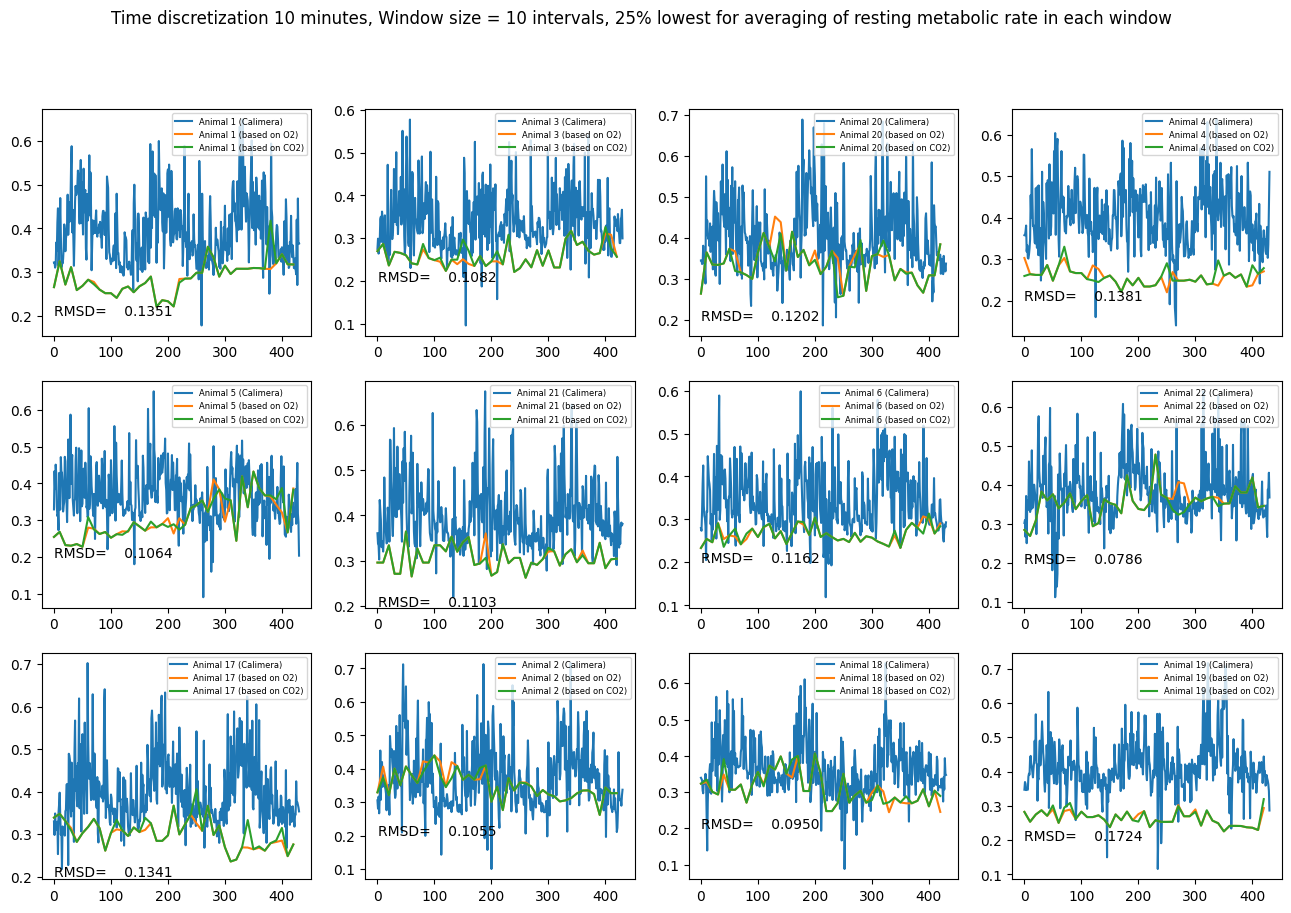
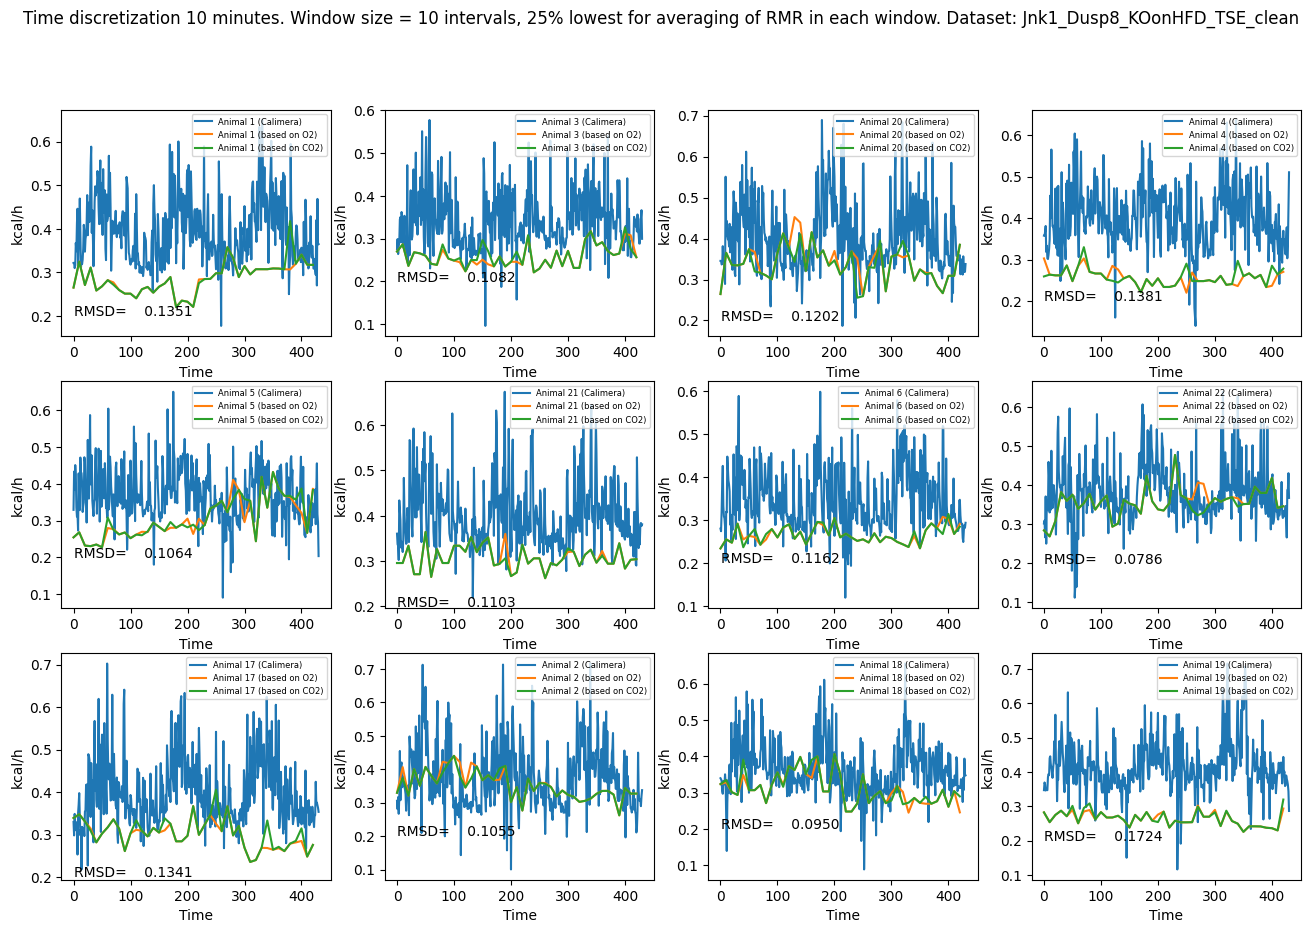
Labeling of data.

Changed region(s): [[0.0, 0.092, 1.0, 1.0], [0.0, 0.0, 0.9915, 0.0307], [0.9605, 0.9507, 0.9915, 1.0]]

diff --git a/Comparison calimera/compare.py b/Comparison calimera/compare.py
@@ -21,6 +21,7 @@ if __name__ == "__main__":
     parser.add_argument('-w', '--window', dest='window', required=True)
     parser.add_argument('-o', '--output', dest='output', required=True)
     parser.add_argument('-t', '--time', dest='time', required=True)
+    parser.add_argument('-n', '--name', dest='name', required=True)
     args = parser.parse_args()
 
     dfCalimera = pd.read_csv(args.reference, sep='\t')
@@ -48,14 +49,12 @@ if __name__ == "__main__":
         rmsds.append(np.sqrt(np.mean((np.array(datapointsRef)-np.array(datapoints))**2)))
         
     L, U = find_approx_square(len(animal_ids))
-    print("L:")
-    print(L)
-    print("U:")
-    print(U)
     for index, column in enumerate(animal_ids):
         plt.subplot(L, U, index + 1) # 3, 4
         plt.plot(range(0, num_rows), dfCalimera[column][1:], label=f"Animal {column} (Calimera)")
         plt.legend(loc=2, prop={'size' : 6})
+        plt.ylabel('kcal/h')
+        plt.xlabel(f'Time')
 
     for index, animal in enumerate(animal_ids):
         plt.subplot(L, U, index + 1) # 3, 4
@@ -63,6 +62,9 @@ if __name__ == "__main__":
         plt.plot(dfShiny.loc[(dfShiny["Animal"] == int(animal)) & (dfShiny["Component"] == "CO2")]["Time"].tolist(), dfShiny.loc[(dfShiny["Animal"] == int(animal)) & (dfShiny["Component"] == "CO2")]["HP"].tolist(), label=f"Animal {animal} (based on CO2)")
         plt.legend(loc=1, prop={'size' : 6})
         plt.text(0.1, 0.2, f"RMSD={'{:10.4f}'.format(rmsds[index])}")
+        plt.ylabel('kcal/h')
+        plt.xlabel(f'Time')
+
 
     min_RMRs = []
     for index, animal in enumerate(animal_ids):
@@ -75,7 +77,7 @@ if __name__ == "__main__":
     manager = plt.get_current_fig_manager()
     # manager.window.showMaximized()
     # plt.show()
-    plt.suptitle(f"Time discretization {args.time} minutes, Window size = {args.window} intervals, 25% lowest for averaging of resting metabolic rate in each window")
+    plt.suptitle(f"Time discretization {args.time} minutes. Window size = {args.window} intervals, 25% lowest for averaging of RMR in each window. Dataset: {args.name}")
     f = plt.gcf()
     f.set_size_inches(16, 10)
     plt.savefig(f"{args.output}/comparison_with_calimera_window_size={args.window}_time_trace_RMR_over_day.png", bbox_inches='tight')
@@ -95,4 +97,6 @@ if __name__ == "__main__":
     # plt.show()
     f = plt.gcf()
     f.set_size_inches(16, 10)
+    plt.ylabel('kcal/day')
+    plt.suptitle(f"Daily RMR. Dataset: {args.name}")
     plt.savefig(f"{args.output}/comparison_with_calimera_window_size={args.window}_boxplots_RMR_per_day.png", bbox_inches='tight')
